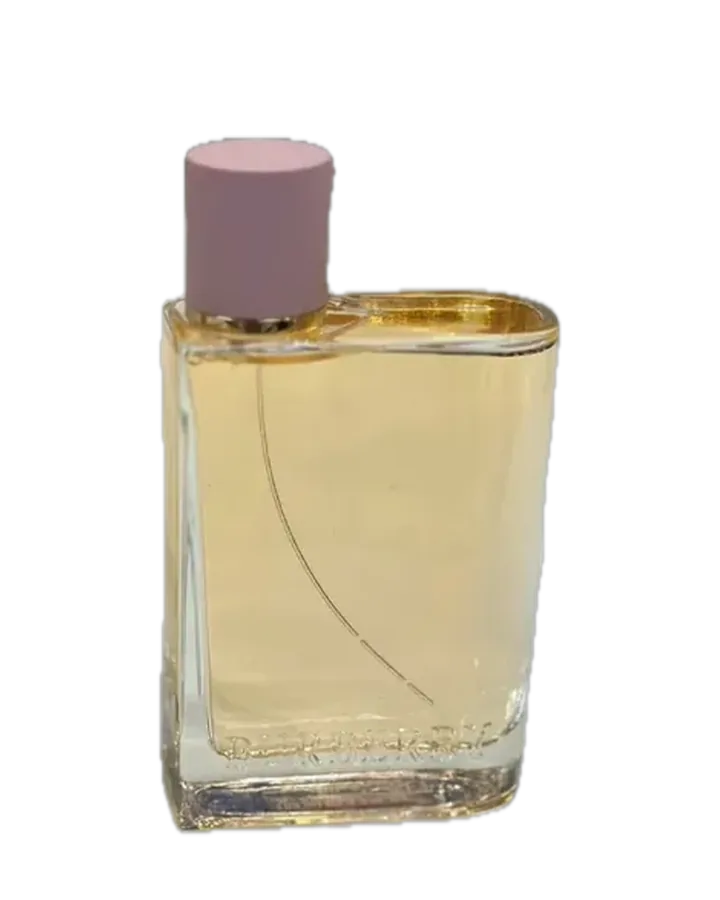
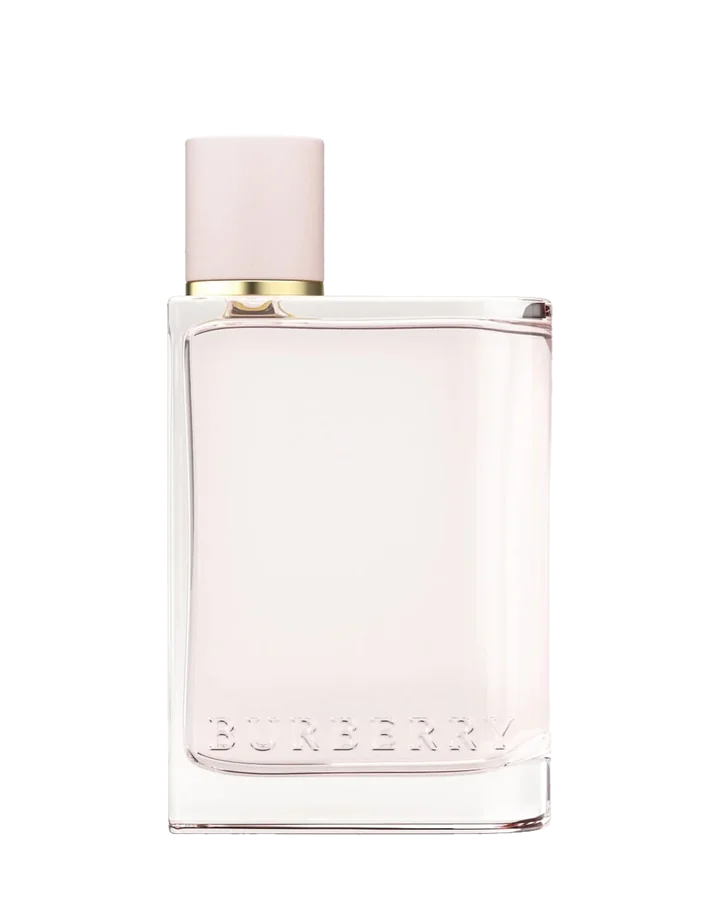
Thème 3.9.3 : 24 photos produit remplacées par celles de la boutique
Côté client : 24 fiches changent de photo (Chanel, Dior, YSL, Tom Ford,
Burberry, Versace, Lancôme, Parfums de Marly, Gucci, Armani), avec les
photos fournies par la boutique, détourées et cadrées comme le reste du
catalogue. Aucun autre changement.

diff --git a/comptoir-parfums/style.css b/comptoir-parfums/style.css
@@ -2,7 +2,7 @@
 Theme Name: Le Comptoir des Parfums
 Description: Thème sur-mesure pour Le Comptoir des Parfums — testeurs originaux des grandes maisons, livrés partout au Maroc. Catalogue de 208 références rendu côté serveur depuis produits.php, panier client et commande par WhatsApp, sans aucune page à créer dans l'administration.
 Author: Hiba
-Version: 3.9.2
+Version: 3.9.3
 Requires at least: 5.9
 Requires PHP: 7.0
 Text Domain: comptoir-parfums
